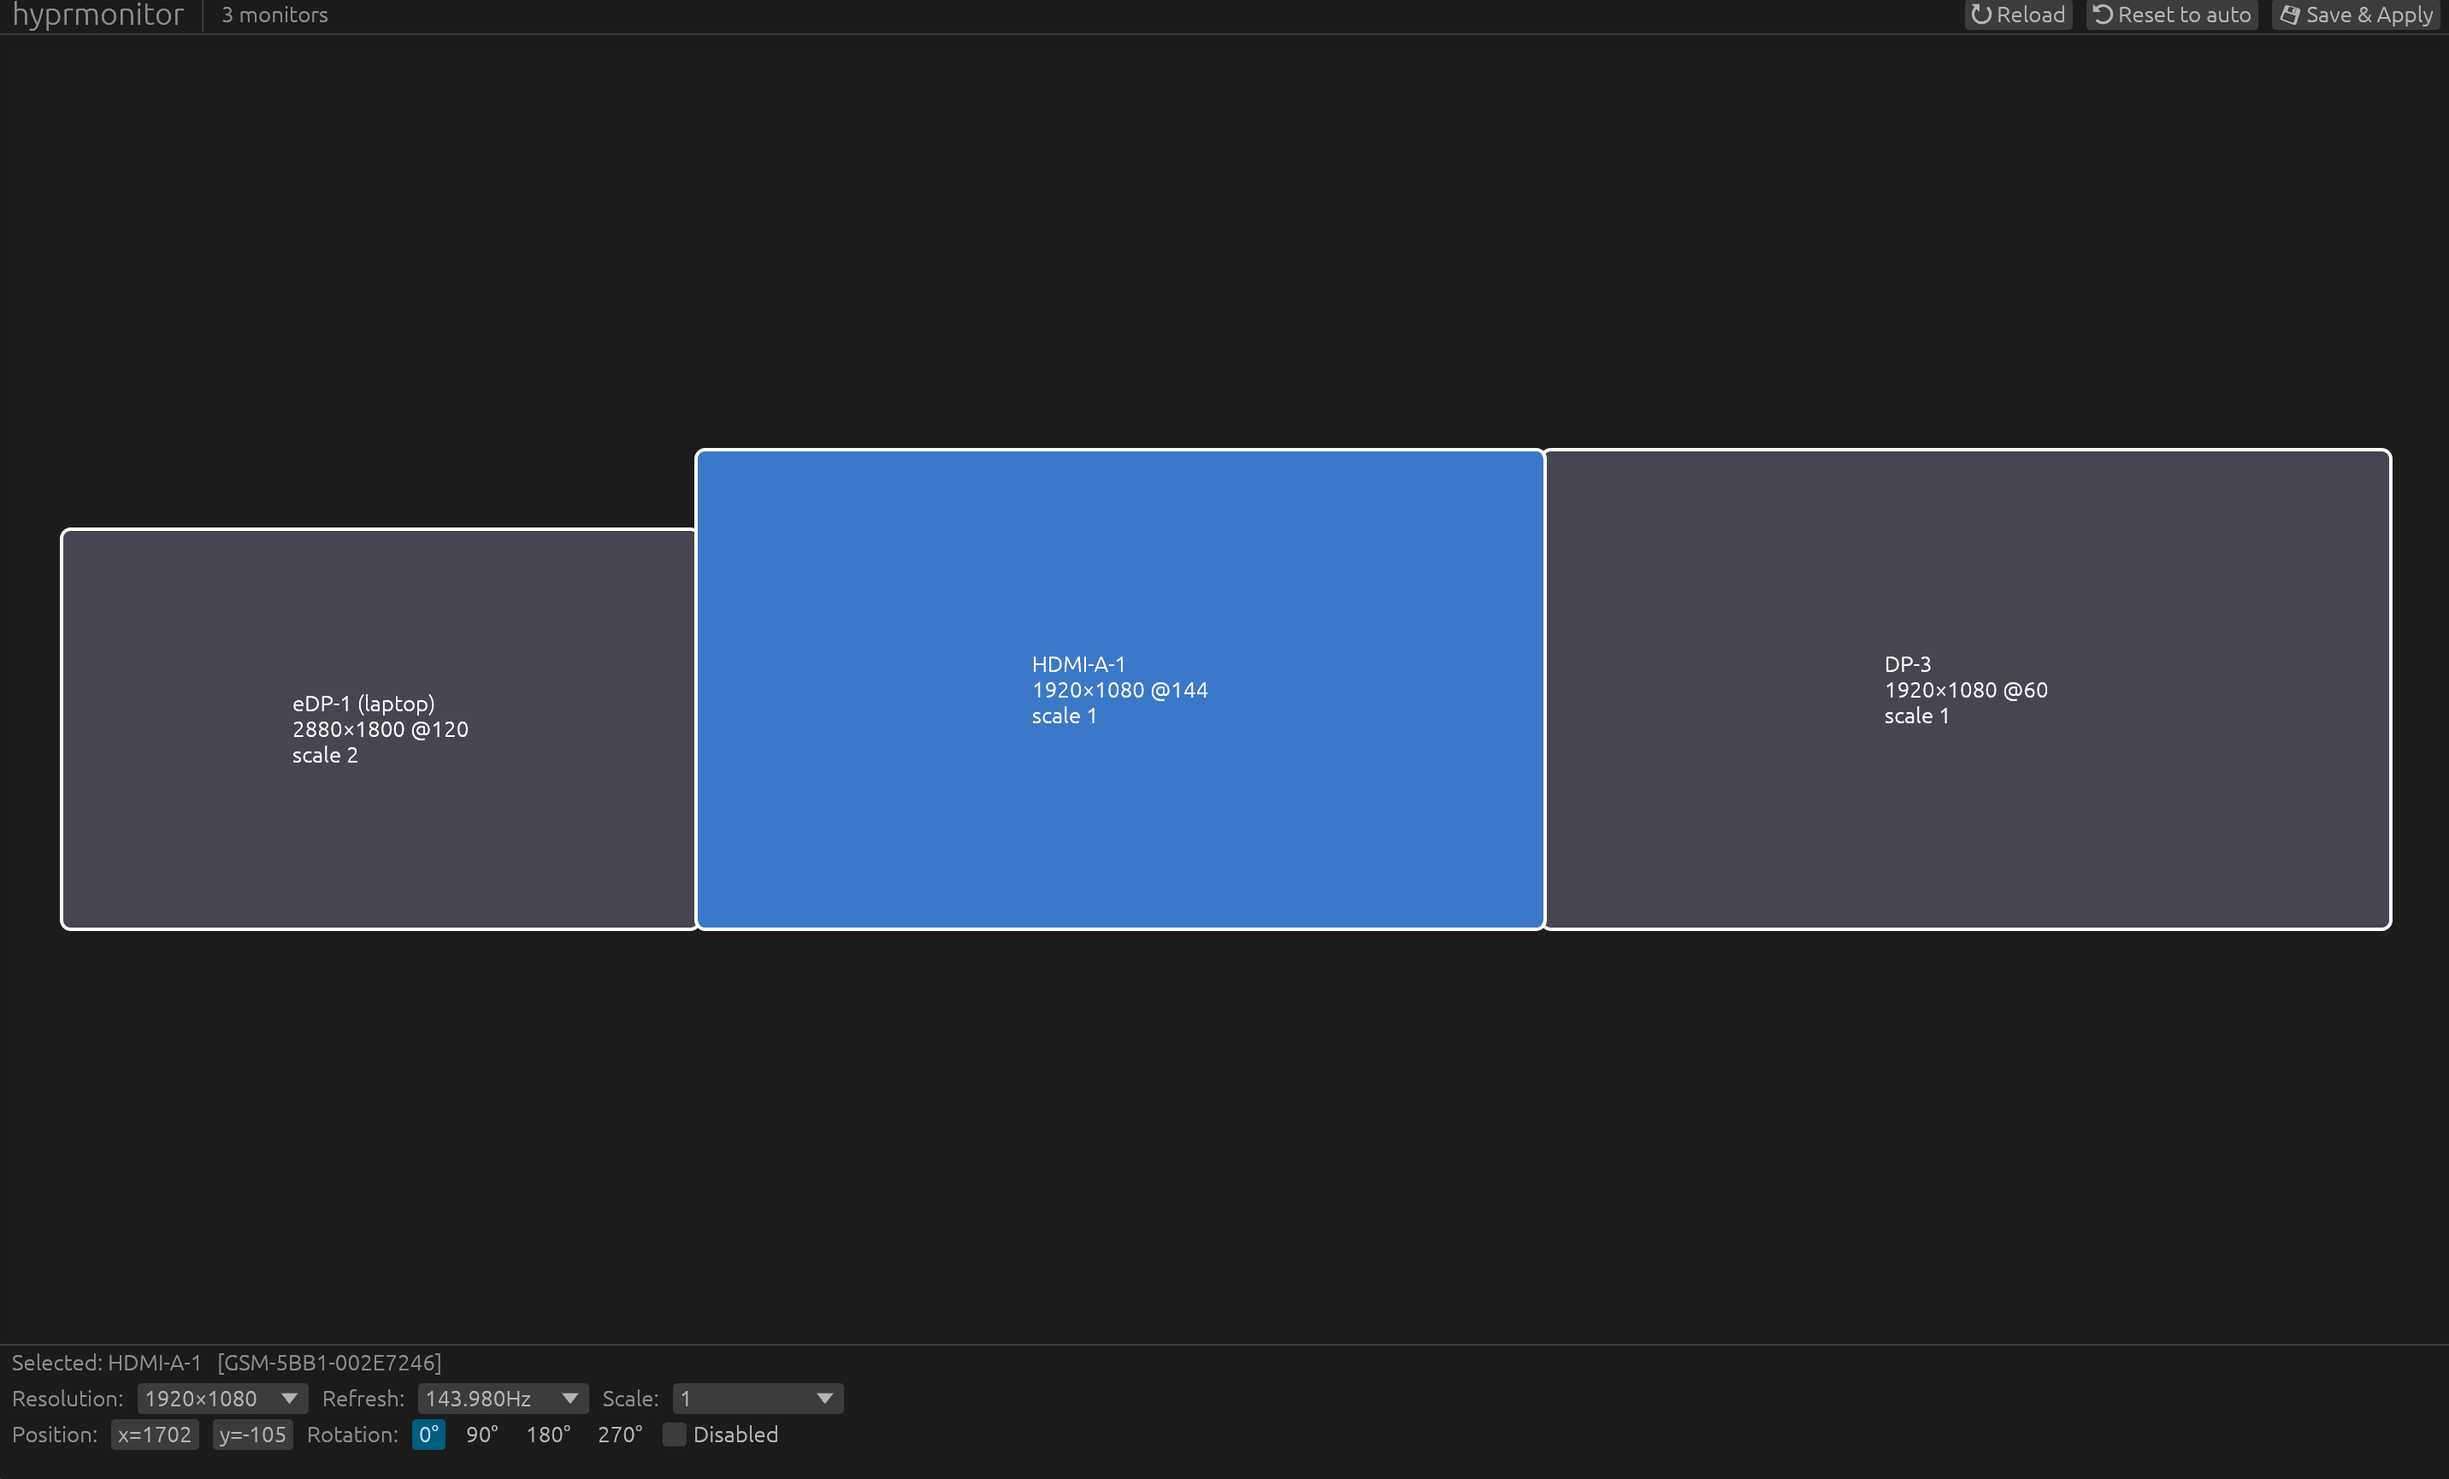
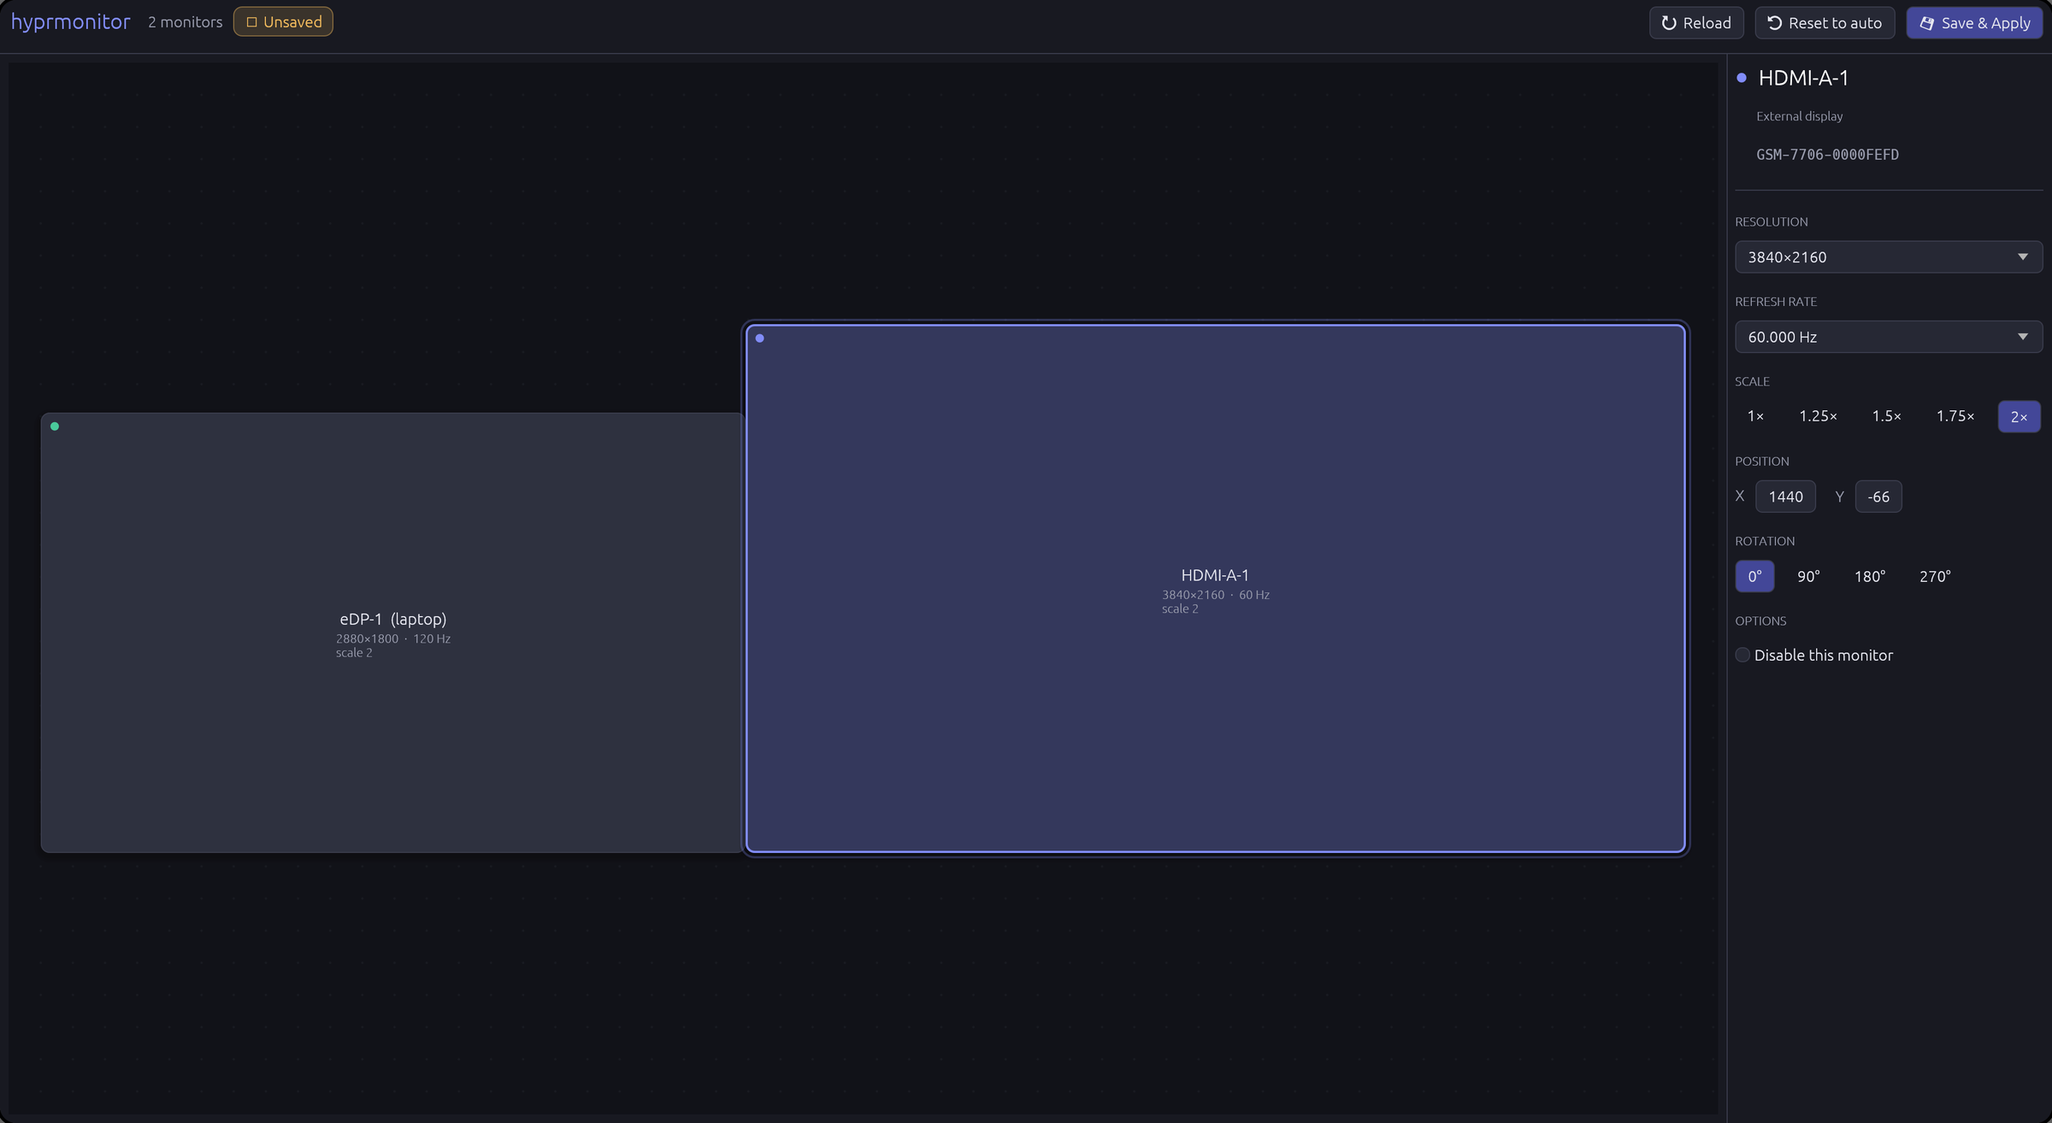
docs: refresh GUI screenshot and prose for the modern UI
Recapture screenshot.png against the new theme and correct the two
lines that still described the old layout (bottom inspector, blue
selection highlight).

diff --git a/README.md b/README.md
@@ -67,7 +67,7 @@ exec-once = /path/to/hyprmonitor daemon
 
 ## GUI
 
-![hyprmonitor-gui showing three monitors with the middle one selected](screenshot.png)
+![hyprmonitor-gui showing two monitors with the external one selected](screenshot.png)
 
 Open the editor:
 
@@ -80,7 +80,7 @@ hyprmonitor-gui
 Each monitor is a draggable rectangle sized to its **logical footprint** (`mode.width / scale`). Internal panels (eDP/LVDS/DSI) are labelled `(laptop)`.
 
 - **Drag** any rectangle to move it. Drops snap to neighbouring edges within 20px; on release a wider 200px alignment pass closes any small gap so the cursor can cross between monitors. Hyprland only allows cursor travel across exactly-adjacent regions.
-- **Click** a monitor to select it (highlighted blue). The inspector at the bottom lets you change resolution / refresh / scale / position / rotation / disabled state.
+- **Click** a monitor to select it (highlighted with an accent ring). The inspector on the right lets you change resolution / refresh / scale / position / rotation / disabled state.
 - **Arrow keys** with a monitor selected nudge by 1 logical px. **Esc** deselects.
 - **Save & Apply** (or **Ctrl+S**) validates the layout, writes `~/.config/hyprmonitor/monitors.json`, and runs `hyprctl keyword monitor …` for each enabled monitor. The button greys out and shows `⚠ <reason>` if monitors overlap or a mode isn't supported.
 - **Reload** re-queries Hyprland (use after a hotplug while the GUI is open). **Reset to auto** discards overrides and shows the daemon's automatic plan (still requires Save to persist).
